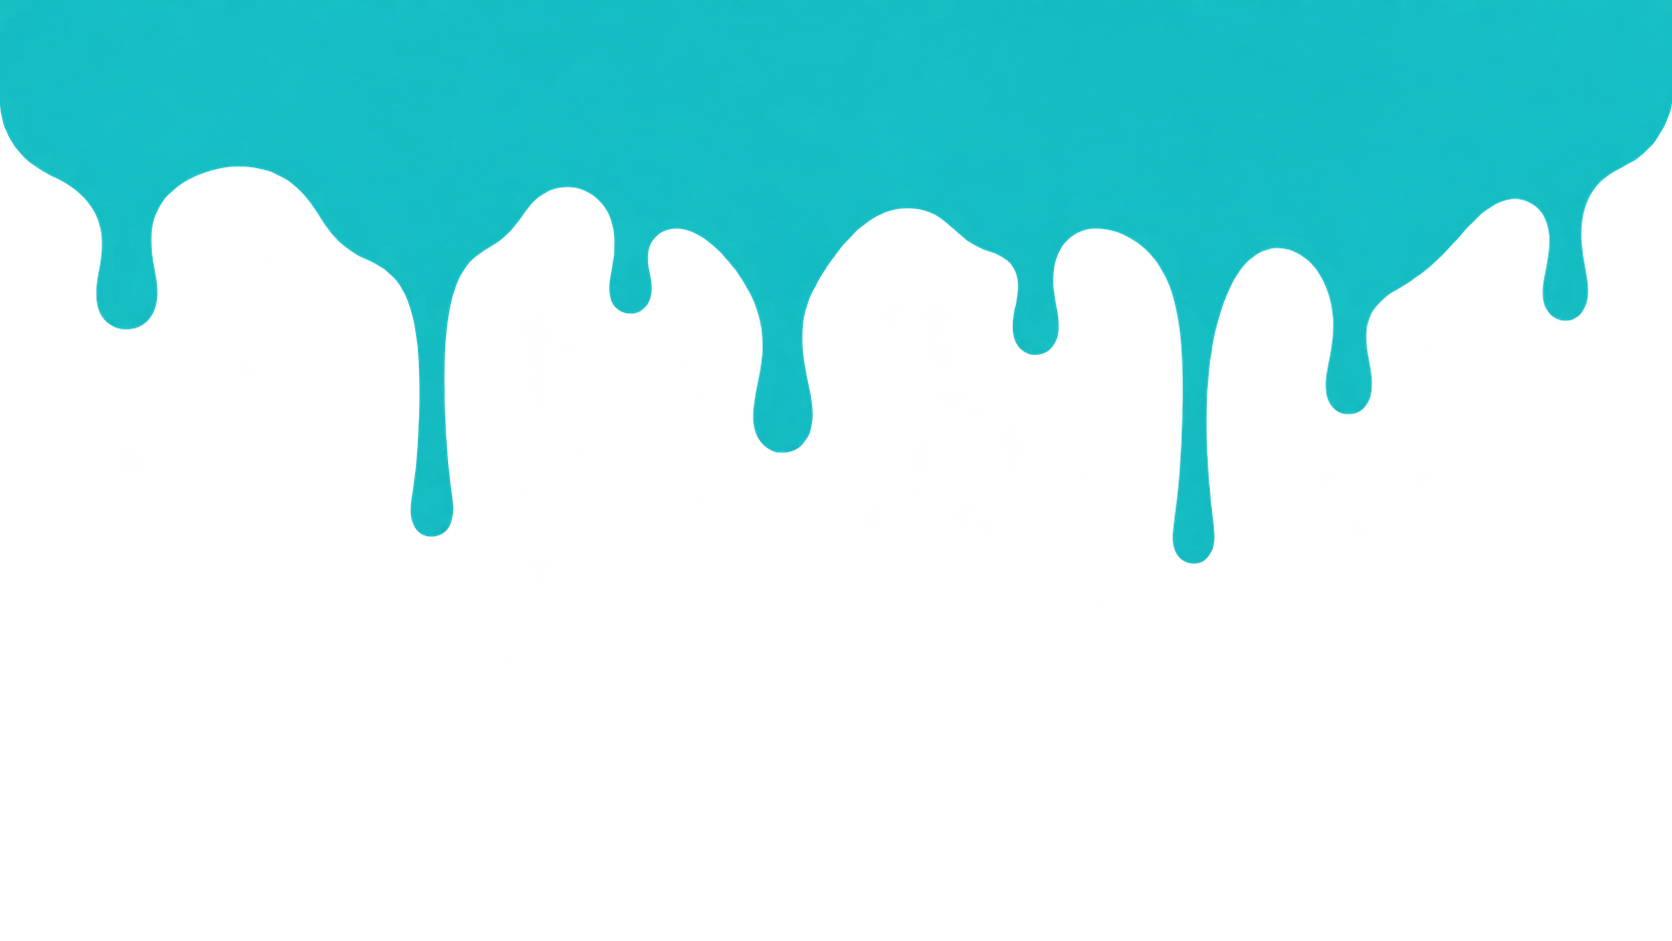
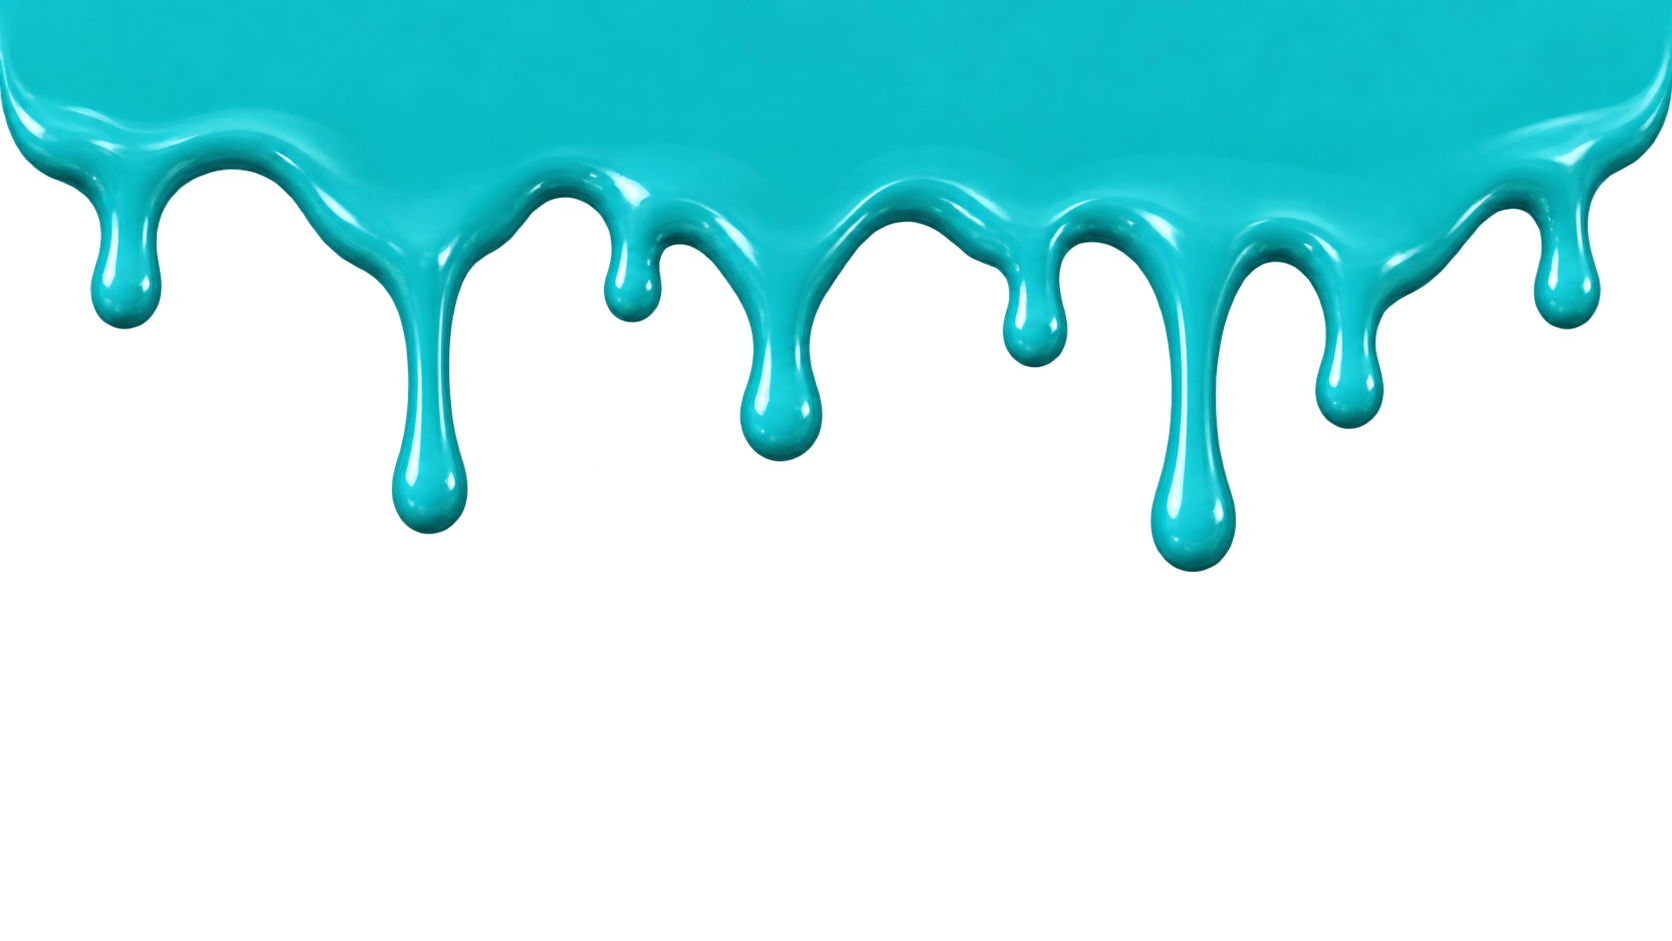
Replace paint mask with full-color image overlay

Changed region(s): [[0.0, 0.0308, 1.0, 0.6164]]

diff --git a/src/components/home/Hero.tsx b/src/components/home/Hero.tsx
@@ -4,13 +4,13 @@ import { ArrowLeft } from '../Icons'
 import { HeroSwatches } from './HeroSwatches'
 import { brand, heroCopy } from '../../data/brand'
 import { useReducedMotion } from '../../lib/useReducedMotion'
-import { FRAME_COUNT, FrameSequence, PAINT_COLOR, POSTER_SRC } from './heroSequence'
-import { paintMaskHeight, paintTravel } from './paintMask'
+import { FRAME_COUNT, FrameSequence, POSTER_SRC } from './heroSequence'
+import { PAINT_ART_SRC, PAINT_EDGE_COLOR, paintTravel } from './paintArt'
 import { revealDistance } from './reveal'
 
 /** Copy is gone by this share of the hero scroll and comes back on the way up. */
 const COPY_FADE_END = 0.14
-/** The clip ends in solid paint; the veil seals the seam into the paint token as it ends. */
+/** The clip ends in solid paint; the veil seals the seam into the artwork's turquoise. */
 const VEIL_START = 0.86
 const VEIL_END = 0.99
 
@@ -140,6 +140,7 @@ export function Hero() {
   const copyRef = useRef<HTMLDivElement | null>(null)
   const veilRef = useRef<HTMLDivElement | null>(null)
   const curtainRef = useRef<HTMLDivElement | null>(null)
+  const plateRef = useRef<HTMLDivElement | null>(null)
 
   useLayoutEffect(() => {
     if (reduced) return
@@ -152,7 +153,8 @@ export function Hero() {
     const poster = posterRef.current
     const veil = veilRef.current
     const curtain = curtainRef.current
-    if (!track || !stage || !media || !canvas || !copy || !veil || !curtain) return
+    const plate = plateRef.current
+    if (!track || !stage || !media || !canvas || !copy || !veil || !curtain || !plate) return
 
     const context = canvas.getContext('2d')
     if (!context) return
@@ -229,9 +231,9 @@ export function Hero() {
       const { width, height } = size
       if (!width || !height) return
 
-      // The artwork is the mask, so the whole layer travels: at 0 the solid part
-      // of the mask covers the stage with the dripping edge just below the fold,
-      // and at 1 the drip tips have cleared the top of the screen.
+      // One layer travels as a whole: at 0 the plate covers the stage with the
+      // artwork's dripping edge just below the fold, and at 1 the drip tips have
+      // cleared the top of the screen.
       const travel = paintTravel(width, height)
       curtain.style.transform = `translate3d(0, ${(-value * travel).toFixed(2)}px, 0)`
 
@@ -260,12 +262,10 @@ export function Hero() {
       canvas.height = Math.max(1, Math.round(height * dpr))
       context.setTransform(dpr, 0, 0, dpr, 0, 0)
 
-      // The mask is drawn across the full width of a band taller than the stage
-      // by the artwork's own height: the band above it is solid paint, and the
-      // artwork hangs from its bottom edge.
-      const mask = paintMaskHeight(width)
-      curtain.style.height = `${height + mask}px`
-      curtain.style.setProperty('--paint-mask', `${mask}px`)
+      // The plate is the solid turquoise the artwork hangs from: it fills the
+      // stage exactly, so the image's straight top edge lands on its bottom edge
+      // with no gap, and the drips stay below the fold until the reveal starts.
+      plate.style.height = `${height}px`
 
       paintMedia(progress)
       paintReveal(reveal)
@@ -373,13 +373,14 @@ export function Hero() {
             className="absolute inset-0 block h-full w-full object-cover object-center transition-opacity duration-300"
           />
 
-          {/* Seals the hand-off between the clip's final paint frame and the paint mass. */}
+          {/* Seals the hand-off between the clip's final frame and the paint
+              artwork, so the curtain appears without a colour jump. */}
           <div
             ref={veilRef}
             aria-hidden="true"
             data-hero-veil
             className="pointer-events-none absolute inset-0 opacity-0"
-            style={{ backgroundColor: PAINT_COLOR }}
+            style={{ backgroundColor: PAINT_EDGE_COLOR }}
           />
         </div>
 
@@ -387,11 +388,27 @@ export function Hero() {
           <HeroOverlay />
         </div>
 
-        {/* The paint: one flat fill of the paint token, shaped only by the drip
-            artwork's alpha channel. Its transparent half lets the section below
-            show through, and it never takes pointer events, so the content it
+        {/* The paint: a solid plate in the artwork's own turquoise with the 3D
+            artwork drawn over its lower edge as a plain image, full colour and
+            untouched. The artwork's transparent areas let the section below show
+            through, and the layer never takes pointer events, so the content it
             uncovers stays fully usable. */}
-        <div ref={curtainRef} aria-hidden="true" data-hero-curtain className="paint-curtain pointer-events-none absolute inset-x-0 top-0 z-30" />
+        <div
+          ref={curtainRef}
+          aria-hidden="true"
+          data-hero-curtain
+          className="pointer-events-none absolute inset-x-0 top-0 z-30 will-change-transform"
+        >
+          <div ref={plateRef} data-hero-paint-plate style={{ backgroundColor: PAINT_EDGE_COLOR }} />
+          <img
+            src={PAINT_ART_SRC}
+            alt=""
+            aria-hidden="true"
+            draggable={false}
+            data-hero-paint-art
+            className="block h-auto w-full select-none"
+          />
+        </div>
       </div>
     </section>
   )

diff --git a/src/components/home/paintArt.ts b/src/components/home/paintArt.ts
@@ -1,0 +1,34 @@
+/**
+ * The paint curtain's artwork (`public/img/paint-drip.png`), drawn full colour:
+ * the 3D render is the visible asset, so its highlights, shadows and alpha are
+ * kept exactly as supplied — never used as a mask or recoloured.
+ *
+ * The artwork is 1672×941 with a straight opaque top edge and the dripping edge
+ * reaching down to row 571; everything under that is transparent, so the paint's
+ * lowest point sits at 571 / 941 of the image height and the padding below it is
+ * empty space that the layout has to account for.
+ */
+export const PAINT_ART_SRC = '/img/paint-drip.png'
+
+/** Width ÷ height of the artwork; it is drawn full-width and never stretched. */
+export const PAINT_ART_ASPECT = 1672 / 941
+
+/** Where the drip tips sit on the artwork, as a share of the image height. */
+export const PAINT_TIP_RATIO = 571 / 941
+
+/**
+ * Turquoise of the artwork's straight upper edge (measured mean of its top
+ * rows). The solid plate above the artwork uses it, so the paint reads as one
+ * continuous surface from the top of the screen down into the drips.
+ */
+export const PAINT_EDGE_COLOR = '#0ABDC6'
+
+/** Height of the artwork when it spans `width`. */
+export const paintArtHeight = (width: number) => width / PAINT_ART_ASPECT
+
+/**
+ * Distance the curtain travels for its drip tips to clear the top of a
+ * `height`-tall stage: cover the stage, then carry the artwork itself past it.
+ */
+export const paintTravel = (width: number, height: number) =>
+  height + paintArtHeight(width) * PAINT_TIP_RATIO

diff --git a/src/styles/index.css b/src/styles/index.css
@@ -151,32 +151,6 @@
   }
 }
 
-/* Paint curtain of the hero hand-off.
-
-   The supplied drip artwork is the mask itself — the paint is one flat fill of
-   the paint token showing only where the artwork is opaque, so the dripping edge
-   is exactly the asset's own shape, full-width and proportional at every size.
-   The artwork's transparent lower half stays transparent: the section beneath it
-   is really underneath, with nothing painted behind it.
-
-   The mask has two layers: a solid band that extends the turquoise upward over
-   the viewport while the drips are still below the fold, and the artwork itself
-   pinned to the bottom of the band. `--paint-mask` is the artwork's rendered
-   height, set by the hero from the stage width. */
-.paint-curtain {
-  height: 0;
-  background-color: var(--paint);
-  will-change: transform;
-  -webkit-mask-image: linear-gradient(#000, #000), url('/img/paint-drip.png');
-  mask-image: linear-gradient(#000, #000), url('/img/paint-drip.png');
-  -webkit-mask-repeat: no-repeat, no-repeat;
-  mask-repeat: no-repeat, no-repeat;
-  -webkit-mask-position: 0 0, 0 100%;
-  mask-position: 0 0, 0 100%;
-  -webkit-mask-size: 100% calc(100% - var(--paint-mask, 0px) + 2px), 100% auto;
-  mask-size: 100% calc(100% - var(--paint-mask, 0px) + 2px), 100% auto;
-}
-
 /* Scroll-driven hero: how far the pinned stage travels. A phone gets a shorter
    distance so the whole sequence stays comfortable to explore. */
 [data-hero-track] {
